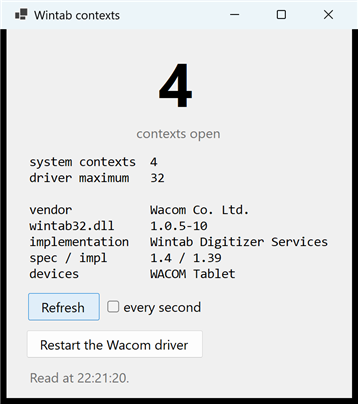
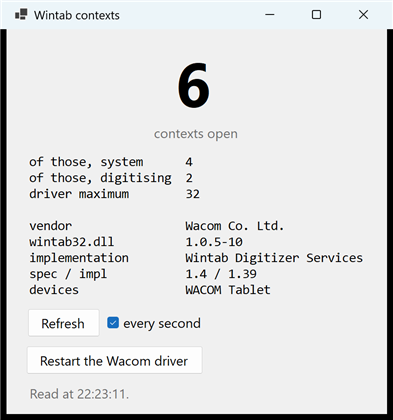
Show digitising contexts beside the system ones
The window named one kind and not the other, which reads as though system
contexts were the only kind there are.

Wintab has no counter for the other kind. WTI_STATUS implements eight indices
-- asked for all twelve, the last four write nothing -- and none of them is a
digitising count, so digitising contexts are the total less the system ones.
Confirmed by holding one of each: a system context raises both counters, a
digitising context raises the total and leaves the system count alone.

Verified in the window rather than only in the arithmetic. With one digitising
context held it reads 6 total, 4 system, 2 digitising, against the holder's own
reading of open 6 system 4.

The driver maximum moved out of the caption in the previous change, so it is
here in the same block now, which is also where it belongs.

Worth recording how nearly this went wrong: the first run of the test said the
digitising context had registered as a system one. It had not -- the compile
that was supposed to add the flag never ran, and the binary being measured was
twenty-eight minutes old. Timestamps on the exe and the source said so. A
measurement of stale code looks exactly like a measurement of a bug.

diff --git a/Tools/WintabContexts/MainForm.cs b/Tools/WintabContexts/MainForm.cs
@@ -41,6 +41,9 @@ internal sealed class MainForm : Form
     /// </remarks>
     private const string CountCaption = "contexts open";
 
+    /// <summary>The last total read, so the digitising count can be worked out from it.</summary>
+    private uint? _lastOpen;
+
     public MainForm()
     {
         // Sizes are written at 96 dpi and scaled by hand. A form built in code never gets the
@@ -170,6 +173,7 @@ internal sealed class MainForm : Form
             return;
         }
 
+        _lastOpen = table.Open;
         _count.Text = table.Open.ToString();
         _countCaption.Text = CountCaption;
 
@@ -194,15 +198,26 @@ internal sealed class MainForm : Form
 
         var dll = Wintab.Library;
 
+        // The split, because the total on its own does not say which kind of context appeared.
+        // Wintab counts the system ones and does not count the other kind, so digitising is what
+        // is left when they are taken off the total.
+        uint? system = Wintab.SystemContexts;
+        string systemText = system?.ToString() ?? "not reported";
+        string digitisingText = maximum is null ? "not read yet"
+            : system is { } known && _lastOpen is { } total && total >= known
+                ? (total - known).ToString()
+                : "not reported";
+
         _detail.Text = string.Join(Environment.NewLine,
-            $"system contexts  {Wintab.SystemContexts}",
-            $"driver maximum   {maximum?.ToString() ?? "not read yet"}",
+            $"of those, system      {systemText}",
+            $"of those, digitising  {digitisingText}",
+            $"driver maximum        {maximum?.ToString() ?? "not read yet"}",
             "",
-            $"vendor           {dll?.CompanyName ?? "not reported"}",
-            $"wintab32.dll     {dll?.FileVersion ?? "not reported"}",
-            $"implementation   {Wintab.Implementation}",
-            $"spec / impl      {Wintab.SpecVersion} / {Wintab.ImplVersion}",
-            $"devices          {Wintab.Devices}");
+            $"vendor                {dll?.CompanyName ?? "not reported"}",
+            $"wintab32.dll          {dll?.FileVersion ?? "not reported"}",
+            $"implementation        {Wintab.Implementation}",
+            $"spec / impl           {Wintab.SpecVersion} / {Wintab.ImplVersion}",
+            $"devices               {Wintab.Devices}");
     }
 
     /// <summary>Only offer the reset where it is known to be the right one.</summary>

diff --git a/Tools/WintabContexts/Wintab.cs b/Tools/WintabContexts/Wintab.cs
@@ -58,8 +58,16 @@ internal static class Wintab
 
     public static string ImplVersion => Version(IFC_IMPLVERSION);
 
-    /// <summary>System contexts open, which is a subset of the total.</summary>
-    public static string SystemContexts => Number(WTI_STATUS, STA_SYSCTXS)?.ToString() ?? "not reported";
+    /// <summary>
+    /// System contexts open, which is a subset of the total. Null if the driver will not say.
+    /// </summary>
+    /// <remarks>
+    /// <b>There is no counter for the other kind.</b> Wintab reports the total and the system
+    /// subset and nothing else -- WTI_STATUS has eight indices and none of them is a digitising
+    /// count -- so digitising contexts are the two subtracted. Confirmed by opening one: the total
+    /// rises and this does not.
+    /// </remarks>
+    public static uint? SystemContexts => Number(WTI_STATUS, STA_SYSCTXS);
 
     /// <summary>Every device the driver lists, by the name it gives each one.</summary>
     /// <remarks>

diff --git a/Docs/WINTAB-CONTEXT-LEAK.md b/Docs/WINTAB-CONTEXT-LEAK.md
@@ -147,6 +147,11 @@ driver is not broken by this — it is just counting contexts that no longer hav
 `STA_CONTEXTS` by two and `STA_SYSCTXS` by nothing. Whatever the unit is, it is not "one context",
 so do not read `STA_CONTEXTS` as a number of contexts.
 
+That difference is also the only way to tell the two kinds apart. **Wintab has no counter for
+digitising contexts**: `WTI_STATUS` implements eight indices, confirmed by asking for all of them,
+and none of them is one. Digitising contexts are what is left after the system ones are subtracted
+from the total.
+
 ## `IFC_NCONTEXTS` is not a ceiling
 
 The Wintab specification calls it "the number of contexts supported". This driver reports **32**

diff --git a/Tools/WintabContexts/README.md b/Tools/WintabContexts/README.md
@@ -22,7 +22,9 @@ dotnet run --project Tools/WintabContexts
 | | |
 |---|---|
 | the large number | contexts open, across every application on the machine |
-| system contexts | how many of those are system contexts rather than digitising ones |
+| of those, system | how many drive the cursor as well as delivering packets |
+| of those, digitising | the rest. Wintab has no counter for these, so it is the total less the system ones |
+| driver maximum | what the driver says it supports, which it does not enforce |
 | vendor | the company recorded in `wintab32.dll` — whose driver is answering |
 | wintab32.dll | that file's version |
 | implementation | the name Wintab gives itself |
